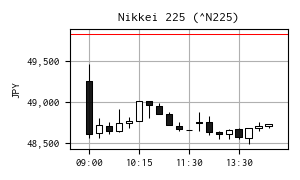
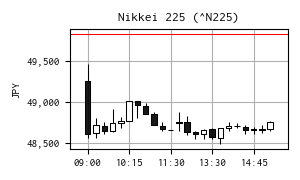
update

diff --git a/widgets/charts.py b/widgets/charts.py
@@ -130,13 +130,17 @@ class TickChart(Chart):
         df.index = [pd.Timestamp(ts + self.tz, unit='s') for ts in df["Time"]]
         ser_price = df["Price"]
         ser_vwap = df["VWAP"]
+        ser_ma060 = df["MA060"]
+        ser_ma300 = df["MA300"]
 
         # 消去
         self.ax.cla()
 
         # プロット
-        self.ax.plot(ser_price, linewidth=0.5, label="Price")
-        self.ax.plot(ser_vwap, linewidth=0.5, label="VWAP")
+        self.ax.plot(ser_price, linewidth=0.5, linestyle="solid", label="Price")
+        self.ax.plot(ser_vwap, linewidth=0.5, linestyle="solid", label="VWAP")
+        self.ax.plot(ser_ma060, linewidth=1, linestyle="dotted", label="MA060")
+        self.ax.plot(ser_ma300, linewidth=1, linestyle="dotted", label="MA300")
 
         self.ax.xaxis.set_major_formatter(mdates.DateFormatter("%H:%M"))
         self.ax.grid(True, lw=0.5)

diff --git a/modules/win_tick.py b/modules/win_tick.py
@@ -2,7 +2,7 @@ import logging
 
 import pandas as pd
 
-from funcs.technical import calc_vwap
+from funcs.technical import calc_vwap, calc_ma
 from structs.res import AppRes
 from widgets.charts import ChartNavigation, TickChart
 from widgets.containers import MainWindow
@@ -31,6 +31,7 @@ class WinTick(MainWindow):
         self.setStatusBar(statusbar)
 
     def draw(self, df: pd.DataFrame, title: str = ""):
-        # VWAP を算出してからプロット
+        # VWAP, MA を算出してからプロット
         calc_vwap(df)
+        calc_ma(df)
         self.chart.updateData(df, title)

diff --git a/funcs/technical.py b/funcs/technical.py
@@ -15,3 +15,7 @@ def calc_vwap(df: pd.DataFrame):
     df["VWAP"] = df["cum_pv"] / df["cum_vol"]
     # VWAP乖離率の計算
     df["VWAP_deviation"] = (df["Price"] - df["VWAP"]) / df["VWAP"]
+
+def calc_ma(df: pd.DataFrame):
+    df["MA060"]=df["Price"].rolling(60, min_periods=1).mean()
+    df["MA300"]=df["Price"].rolling(300, min_periods=1).mean()
